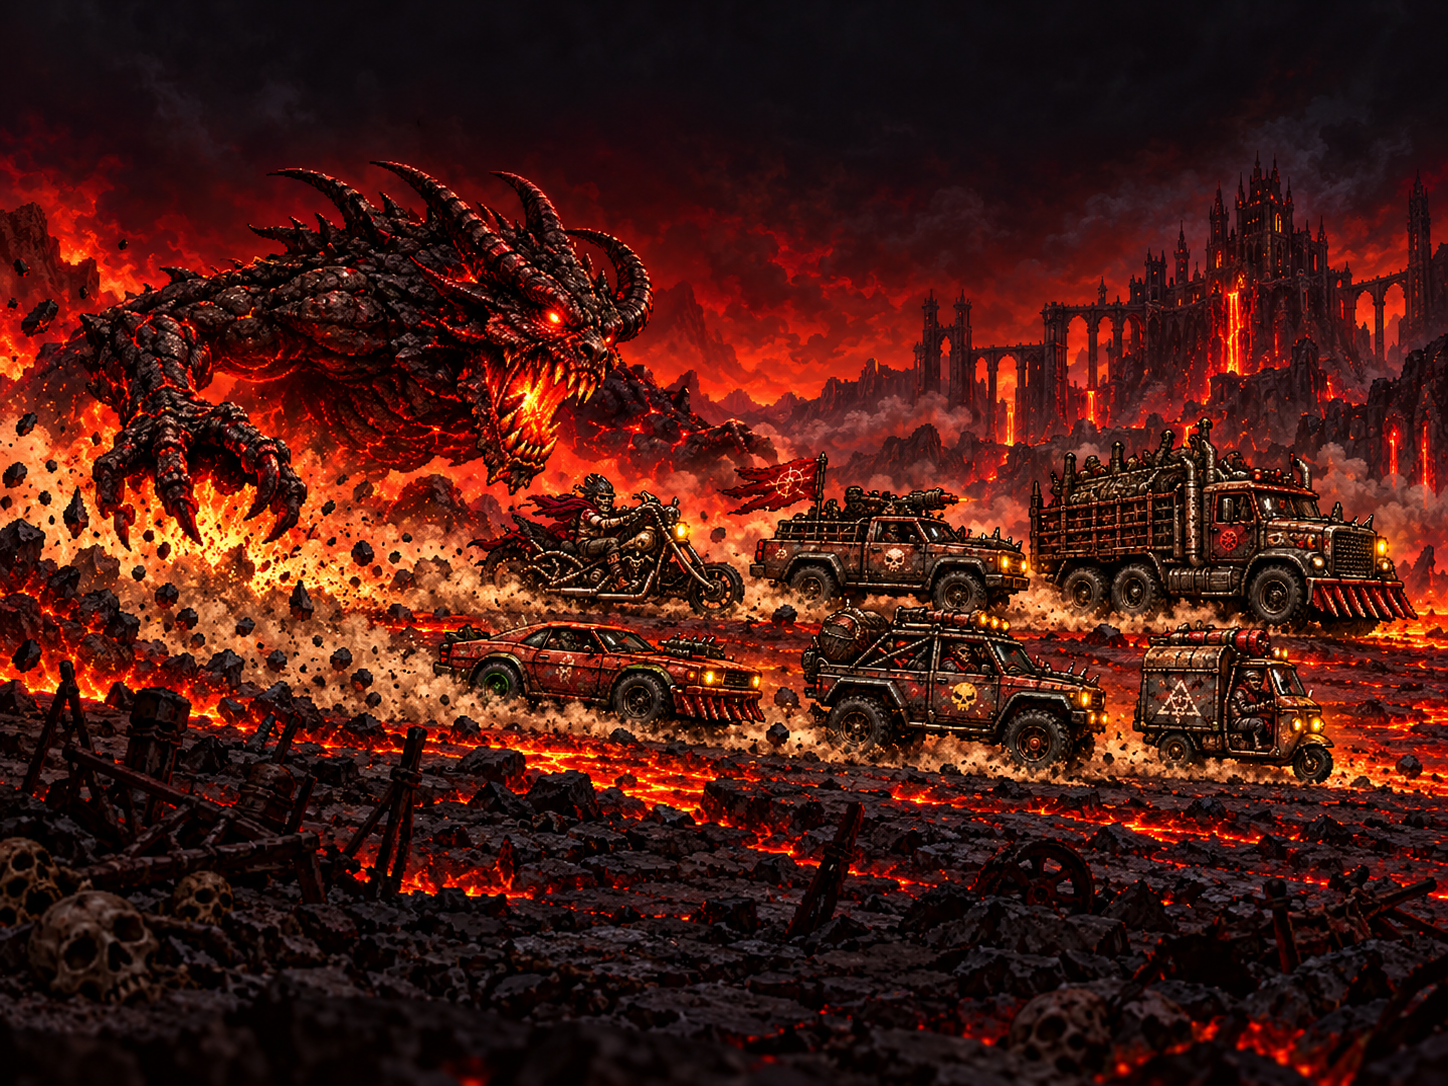
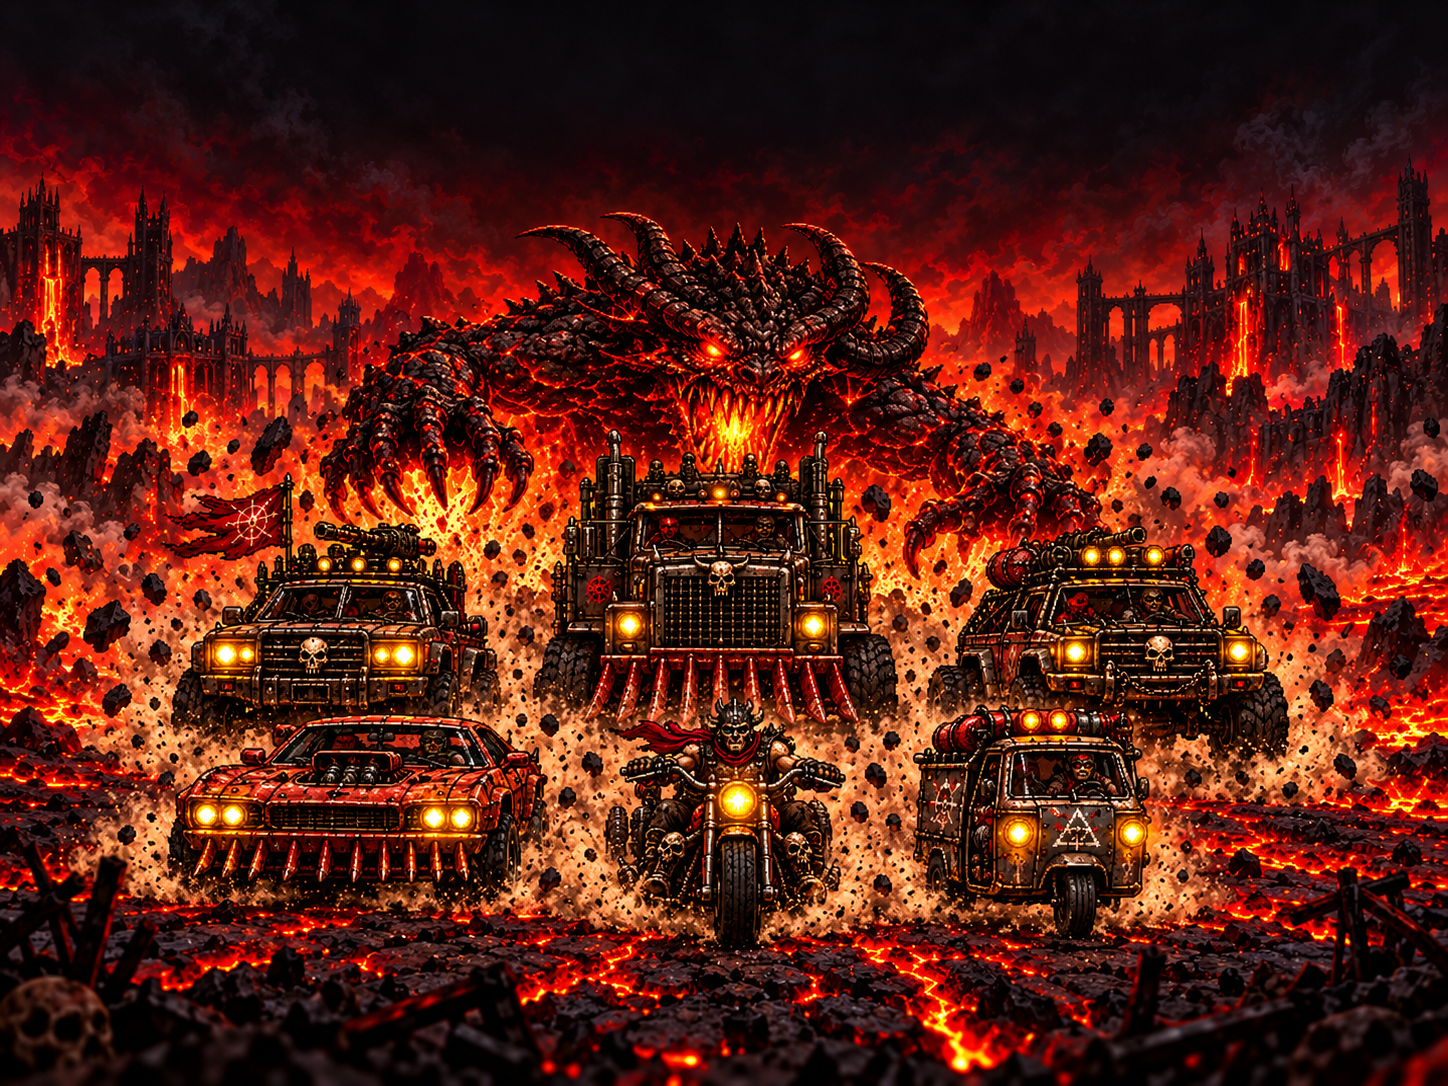
Mostra frontalmente i sei veicoli in fuga dal demone

diff --git a/assets/home.css b/assets/home.css
@@ -5,7 +5,7 @@
 body{margin:0;background:#080605}
 [hidden]{display:none!important}
 #viewport-stage .home-screen{position:relative;isolation:isolate;height:768px;padding:0;overflow:hidden;display:block;background:#140806}
-.home-illustration{position:absolute;inset:0;width:100%;height:100%;object-fit:cover;object-position:center;z-index:-2}
+.home-illustration{position:absolute;top:25px;left:50%;width:826.67px;height:620px;transform:translateX(-50%);object-fit:contain;object-position:center;mask-image:linear-gradient(90deg,transparent,#000 6%,#000 94%,transparent);z-index:-2}
 .home-screen::before{content:"";position:absolute;inset:0;pointer-events:none;background:linear-gradient(#080405b3,transparent 31%,transparent 69%,#080405cc 83%,#080405f5),radial-gradient(ellipse at 50% 45%,transparent 45%,#08040580);z-index:-1}
 #viewport-stage .home-content{position:relative;height:100%;width:100%;display:flex;flex-direction:column;align-items:center;gap:0;padding:18px 58px 18px;text-align:center}
 #viewport-stage .home-content h1{width:720px;max-width:100%;height:180px;margin:0;line-height:0}

diff --git a/index.html b/index.html
@@ -12,7 +12,7 @@
 <link rel="stylesheet" href="assets/home.css"></head>
 <body>
 <div id="viewport-stage"><main class="home-screen">
-<img class="home-illustration" src="assets/hellscape-chase.webp" width="1448" height="1086" fetchpriority="high" alt="Il demone insegue un convoglio di sei veicoli tra lava e rovine: chopper, pick-up, camion, coupé, fuoristrada e Ape.">
+<img class="home-illustration" src="assets/hellscape-chase.webp" width="1448" height="1086" fetchpriority="high" alt="Vista frontale di sei veicoli che fuggono verso di noi, con il demone alle loro spalle: chopper, pick-up, camion, coupé, fuoristrada e Ape.">
 <div class="home-content">
 <p class="subtitle">fuggi dall'inferno</p>
 <h1><img class="home-wordmark" src="assets/hellscape-logo.webp" width="2172" height="724" fetchpriority="high" alt="HELLSCAPE"></h1>

diff --git a/README.md b/README.md
@@ -144,4 +144,4 @@ Percorsi pubblici, API del motore e chiavi dei salvataggi sono conservati. Nessu
 
 Per ogni modifica all’interfaccia consegnare un’anteprima HTML offline e allegare in chat screenshot aggiornati prima dell’approvazione.
 
-La schermata iniziale usa `assets/hellscape-chase.webp`: il demone insegue un convoglio composto da tutti e sei i veicoli selezionabili, con proporzioni e sagome distinte. `assets/hellscape-logo.webp` è il titolo HELLSCAPE in metallo scolpito e incandescente, nello stile Doom del precedente logo FOOL, con sfondo trasparente. Lo stesso titolo compare nelle intestazioni di preparazione e regolamento. Illustrazione e logo sono generati dai riferimenti del gioco e convertiti in WebP senza perdita; gli originali sono conservati nell’ambiente di lavoro. I comandi della home rimangono sotto la scena, compreso Riprendi quando è disponibile un salvataggio. Tutte le immagini e il font del menu sono incorporati nell’HTML offline dagli stessi sorgenti.
+La schermata iniziale usa `assets/hellscape-chase.webp`: i sei veicoli selezionabili sono visti frontalmente mentre fuggono verso chi guarda, con il demone alle loro spalle e proporzioni e sagome distinte. `assets/hellscape-logo.webp` è il titolo HELLSCAPE in metallo scolpito e incandescente, nello stile Doom del precedente logo FOOL, con sfondo trasparente. Lo stesso titolo compare nelle intestazioni di preparazione e regolamento. Illustrazione e logo sono generati dai riferimenti del gioco e convertiti in WebP senza perdita; gli originali sono conservati nell’ambiente di lavoro. Il sottotitolo «fuggi dall'inferno» è centrato sopra HELLSCAPE. I comandi della home rimangono sotto la scena, compreso Riprendi quando è disponibile un salvataggio. Tutte le immagini e il font del menu sono incorporati nell’HTML offline dagli stessi sorgenti.

diff --git a/assets/README.md b/assets/README.md
@@ -7,6 +7,6 @@
 
 Le risorse sono servite dal sito stesso, senza richieste a CDN o servizi di caratteri esterni. Il filtro del logo è in `src/logo-filter.svg`; home, gioco e presentazione usano la stessa identità visiva.
 
-- `hellscape-chase.webp`: illustrazione della home con demone e tutti i sei veicoli (chopper, pick-up, camion, coupé, fuoristrada, Ape). Generata dai riferimenti `hell-race/demon.webp` e `hell-race/vehicles.webp`; originale conservato in `/workspace/generated_images/exec-7a70b224-2e9d-421a-999d-73ca4595471f.png`. Conversione WebP senza perdita, 1448×1086.
+- `hellscape-chase.webp`: illustrazione frontale della home con sei veicoli che fuggono verso chi guarda e il demone dietro di loro (chopper, pick-up, camion, coupé, fuoristrada, Ape). Generata dai riferimenti `hell-race/demon.webp` e `hell-race/vehicles.webp`; originale conservato in `/workspace/generated_images/exec-ec0be6fc-8e56-4eed-b1ee-a4191909d165.png`. Conversione WebP senza perdita, 1448×1086.
 - `hellscape-logo.webp`: lettering HELLSCAPE nello stesso stile Doom del logo FOOL, metallo antracite, biselli argentati e bordi incandescenti; trasparenza nativa. Originale conservato in `/workspace/generated_images/exec-89462bb3-db03-45be-bff6-fdd2c7b7a5b3.png`. Conversione WebP senza perdita, 2172×724. Usato nella home e nelle intestazioni.
 - `home.css`: impaginazione della schermata iniziale 4:3, senza ritaglio dei veicoli o sovrapposizione dei comandi al convoglio. Conserva nomi accessibili, focus, scorciatoie e schermo intero.
